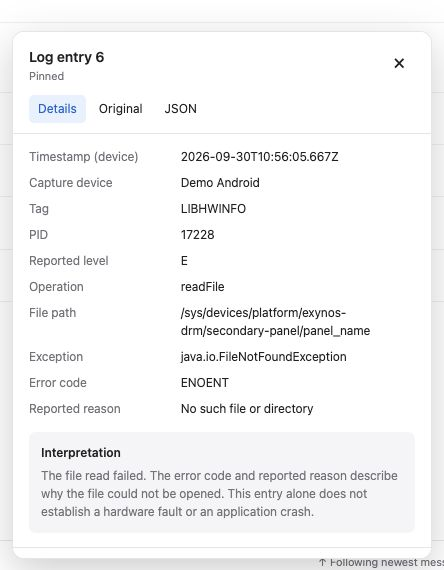
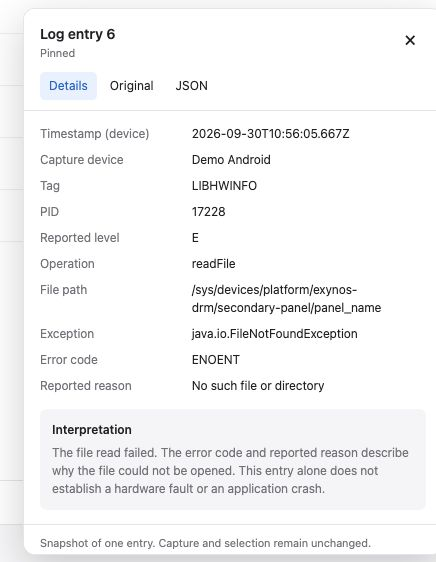
add settings popover. persist selected language, device, display mode, buffer size

diff --git a/src/App.vue b/src/App.vue
@@ -6,19 +6,21 @@ import { filterLogLevels, logLevel, logLevels, type LogLevel } from '../shared/l
 import { rangeKeys, selectedEntries } from '../shared/log-selection';
 import { serializeLogExport, type LogExportFormat } from '../shared/log-export';
 import { useI18n, uiMessage, type UiMessage } from './i18n';
+import UserSettings from './components/UserSettings.vue';
+import { createRememberedDevice, deviceKey } from './remembered-device';
+import { usePreferences } from './composables/usePreferences';
 import PrecisionMenu from './components/PrecisionMenu.vue';
 import LogMessageText from './components/LogMessageText.vue';
 import LogDetails from './components/LogDetails.vue';
 import { useLogDetails } from './composables/useLogDetails';
 
-const { locale, setLocale, languages, languageName, t, n, localizeMessage, deviceState, levelLabel } = useI18n();
+const { locale, setLocale, t, n, localizeMessage, deviceState, levelLabel } = useI18n();
 
 const devices = ref<Device[]>([]);
 const warnings = ref<(DeviceList['warnings'][number] | UiMessage)[]>([]);
 const selected = ref('');
 const messages = ref<(LogMessage & { key: number })[]>([]);
-const bufferSizes = [1000, 2000, 10000, 50000, 100000];
-const bufferSize = ref(2000);
+const { bufferSize, theme, newestPosition } = usePreferences();
 const pausedMessages = ref<typeof messages.value>();
 const paused = computed(() => pausedMessages.value !== undefined);
 const visibleMessages = computed(() => pausedMessages.value ?? messages.value);
@@ -44,14 +46,14 @@ const copyButton = ref<HTMLButtonElement>();
 const status = ref<UiMessage | string>(uiMessage('initialStatus'));
 const loading = ref(false);
 const following = ref(true);
-const newestPosition = ref<'top' | 'bottom'>('top');
 const displayedMessages = computed(() => newestPosition.value === 'top'
   ? [...filteredMessages.value].reverse()
   : filteredMessages.value);
 const viewport = ref<HTMLElement>();
 const details = useLogDetails(() => viewport.value?.focus({ preventScroll: true }));
 const { record: detailRecord, pinned: detailPinned, position: detailPosition } = details;
-const keyOf = (device: Device) => `${device.platform}:${device.id}`;
+const keyOf = deviceKey;
+const rememberedDevice = createRememberedDevice();
 const currentDevice = computed(() => devices.value.find(d => keyOf(d) === selected.value));
 let source: EventSource | undefined;
 let poll: ReturnType<typeof setInterval>;
@@ -70,7 +72,9 @@ async function refresh() {
     if (disposed) return;
     devices.value = result.devices;
     warnings.value = result.warnings;
-    if (selected.value && !currentDevice.value) {
+    const restored = rememberedDevice.restoreOnce(result.devices);
+    if (!selected.value && restored) selected.value = restored;
+    if (selected.value && currentDevice.value?.state !== 'connected') {
       stop();
       selected.value = '';
       status.value = uiMessage('disconnected');
@@ -196,7 +200,7 @@ watch(displayedMessages, rows => {
   if (!rows.some(row => row.key === anchorKey.value)) { anchorKey.value = undefined; rangePending.value = false; }
 });
 watch(status, () => { exportStatus.value = undefined; });
-watch(selected, start);
+watch(selected, () => { rememberedDevice.remember(currentDevice.value); start(); });
 watch(newestPosition, async () => {
   following.value = true;
   await nextTick();
@@ -321,12 +325,8 @@ onUnmounted(() => {
 
 <template>
   <div id="precision-design" :data-platform="currentDevice?.platform" :class="{ selecting: selectionMode }">
-    <header class="precision-top"><div class="precision-brand"><span class="precision-brandmark" aria-hidden="true">›_</span><span>Über <span class="brand-secondary">Device Log</span></span></div><div class="precision-toptools"><span class="precision-topnote">{{ t('tagline') }}</span><div class="precision-language">
-      <PrecisionMenu :label="t('language')"><template #selected><span aria-hidden="true">◎</span><span :lang="locale">{{ languageName }}</span></template>
-        <div class="precision-menuhead">{{ t('language') }}</div>
-        <button v-for="language in languages" :key="language.code" :lang="language.code" :aria-pressed="locale === language.code" @click="setLocale(language.code)">{{ language.name }}</button>
-      </PrecisionMenu>
-    </div></div></header>
+    <header class="precision-top"><div class="precision-brand"><span class="precision-brandmark" aria-hidden="true">›_</span><span>Über <span class="brand-secondary">Device Log</span></span></div><div class="precision-toptools"><span class="precision-topnote">{{ t('tagline') }}</span><UserSettings :locale="locale" :theme="theme" :order="newestPosition" @order="newestPosition = $event" :buffer-size="bufferSize" @locale="setLocale" @theme="theme = $event" @buffer-size="bufferSize = $event" />
+    </div></header>
     <main class="precision-main">
       <div class="precision-controls">
         <div class="precision-field precision-device"><label>{{ t('connectedDevice') }}</label>
@@ -338,8 +338,6 @@ onUnmounted(() => {
           </PrecisionMenu>
         </div>
         <button class="precision-iconbutton" :disabled="loading" :aria-label="t('refreshDevices')" @click="refresh">↻</button>
-        <div class="precision-field"><label>{{ t('messageOrder') }}</label><PrecisionMenu :label="t('messageOrder')"><template #selected>↕ {{ t(newestPosition === 'top' ? 'newestFirst' : 'oldestFirst') }}</template><button :aria-pressed="newestPosition === 'top'" @click="newestPosition = 'top'">{{ t('newestFirst') }}</button><button :aria-pressed="newestPosition === 'bottom'" @click="newestPosition = 'bottom'">{{ t('oldestFirst') }}</button></PrecisionMenu></div>
-        <div class="precision-field"><label>{{ t('bufferCapacity') }}</label><PrecisionMenu :label="t('bufferCapacity')"><template #selected>{{ n(bufferSize) }}</template><button v-for="size in bufferSizes" :key="size" :aria-pressed="bufferSize === size" @click="bufferSize = size">{{ t('messageCount', { count: size }) }}</button></PrecisionMenu></div>
       </div>
       <p v-for="(warning, index) in warnings" :key="index" class="warning" role="status">{{ localizeMessage(warning) }}</p>
       <section class="precision-console" :aria-label="t('deviceMessages')">

diff --git a/src/style.css b/src/style.css
@@ -116,19 +116,17 @@ body { margin: 0; }
   #precision-design[data-platform=ios] .precision-columns, #precision-design[data-platform=ios] .precision-row { grid-template-columns: 64px minmax(0,1fr); }
 }
 
-@media (prefers-color-scheme: dark) {
-#precision-design { --pl-bg:#131715; --pl-panel:#1a201c; --pl-text:#e5ece7; --pl-soft:#a0afa5; --pl-line:#303c33; --pl-wash:#202922; --pl-accent:#92dcb3; --pl-accent-bg:#253f30; --pl-error:#f29f94; --pl-error-bg:#332523; --pl-warn:#e2bb76; --pl-warn-bg:#302c21;}
-#precision-design [data-severity=VERBOSE],#precision-design [data-level=VERBOSE] {--pl-level-ink:#d2afff;--pl-level-fill:#39254f;}
-#precision-design [data-severity=DEBUG],#precision-design [data-level=DEBUG] {--pl-level-ink:#99c1ff;--pl-level-fill:#203958;}
-#precision-design [data-severity=INFO],#precision-design [data-level=INFO] {--pl-level-ink:#80e0b4;--pl-level-fill:#1b4031;}
-#precision-design [data-severity=WARN],#precision-design [data-level=WARN] {--pl-level-ink:#ffd17a;--pl-level-fill:#4b3516;}
-#precision-design [data-severity=ERROR],#precision-design [data-level=ERROR] {--pl-level-ink:#ffa5a9;--pl-level-fill:#53262d;}
-#precision-design [data-severity=FATAL],#precision-design [data-level=FATAL] {--pl-level-ink:#ffa2db;--pl-level-fill:#4e2345;}
-#precision-design {--pl-bg:#151517;--pl-panel:#202023;--pl-text:#f3f3f5;--pl-soft:#a5a5af;--pl-line:#36363b;--pl-wash:#29292e;--pl-accent:#99beff;--pl-accent-bg:#29364b;}
-#precision-design .precision-live .precision-dot {color:#77ce94;}
-#precision-design :is(summary,.precision-menu-trigger) {box-shadow:0 1px 2px #00000020;}
-#precision-design .precision-action.precision-pause {box-shadow:0 1px 3px #00000030;}
-}
+:root[data-theme=dark] #precision-design { --pl-bg:#131715; --pl-panel:#1a201c; --pl-text:#e5ece7; --pl-soft:#a0afa5; --pl-line:#303c33; --pl-wash:#202922; --pl-accent:#92dcb3; --pl-accent-bg:#253f30; --pl-error:#f29f94; --pl-error-bg:#332523; --pl-warn:#e2bb76; --pl-warn-bg:#302c21;}
+:root[data-theme=dark] #precision-design [data-severity=VERBOSE],:root[data-theme=dark] #precision-design [data-level=VERBOSE] {--pl-level-ink:#d2afff;--pl-level-fill:#39254f;}
+:root[data-theme=dark] #precision-design [data-severity=DEBUG],:root[data-theme=dark] #precision-design [data-level=DEBUG] {--pl-level-ink:#99c1ff;--pl-level-fill:#203958;}
+:root[data-theme=dark] #precision-design [data-severity=INFO],:root[data-theme=dark] #precision-design [data-level=INFO] {--pl-level-ink:#80e0b4;--pl-level-fill:#1b4031;}
+:root[data-theme=dark] #precision-design [data-severity=WARN],:root[data-theme=dark] #precision-design [data-level=WARN] {--pl-level-ink:#ffd17a;--pl-level-fill:#4b3516;}
+:root[data-theme=dark] #precision-design [data-severity=ERROR],:root[data-theme=dark] #precision-design [data-level=ERROR] {--pl-level-ink:#ffa5a9;--pl-level-fill:#53262d;}
+:root[data-theme=dark] #precision-design [data-severity=FATAL],:root[data-theme=dark] #precision-design [data-level=FATAL] {--pl-level-ink:#ffa2db;--pl-level-fill:#4e2345;}
+:root[data-theme=dark] #precision-design {--pl-bg:#151517;--pl-panel:#202023;--pl-text:#f3f3f5;--pl-soft:#a5a5af;--pl-line:#36363b;--pl-wash:#29292e;--pl-accent:#99beff;--pl-accent-bg:#29364b;}
+:root[data-theme=dark] #precision-design .precision-live .precision-dot {color:#77ce94;}
+:root[data-theme=dark] #precision-design :is(summary,.precision-menu-trigger) {box-shadow:0 1px 2px #00000020;}
+:root[data-theme=dark] #precision-design .precision-action.precision-pause {box-shadow:0 1px 3px #00000030;}
 
 #precision-design .precision-menu-trigger:disabled { width: 100%; text-align: left; cursor: default; opacity: 1; }
 
@@ -237,3 +235,13 @@ body { margin: 0; }
 @media (prefers-reduced-motion: reduce) {
   #precision-design .precision-action.precision-pause[aria-pressed=true] { animation: none; }
 }
+
+#precision-design .precision-settings { position: relative; }
+#precision-design .settings-panel { position: absolute; right: 0; top: calc(100% + 8px); z-index: 60; width: 300px; max-width: calc(100vw - 28px); max-height: calc(100dvh - 90px); overflow-y: auto; padding: 16px; border: 1px solid var(--pl-line); border-radius: 12px; background: var(--pl-panel); box-shadow: 0 12px 36px #0002; }
+#precision-design .settings-panel header { display: flex; align-items: center; justify-content: space-between; margin-bottom: 12px; }
+#precision-design .settings-panel header button { min-width: 32px; min-height: 32px; font-size: 20px; border-radius: 6px; }
+#precision-design .settings-panel header button:hover { background: var(--pl-wash); }
+#precision-design .settings-panel label { display: block; margin: 12px 0 6px; font-size: 12px; color: var(--pl-soft); }
+#precision-design .settings-panel select { width: 100%; min-height: 42px; padding: 8px; border: 1px solid var(--pl-line); border-radius: 6px; background: var(--pl-panel); color: var(--pl-text); font: inherit; }
+#precision-design .settings-panel select:focus-visible { outline: 2px solid var(--pl-accent); outline-offset: 2px; }
+#precision-design .settings-panel p { margin-top: 14px; font-size: 12px; }

diff --git a/src/i18n/context.ts b/src/i18n/context.ts
@@ -12,7 +12,7 @@ const platformDetail = { platform: 'Platform name Android or iOS; retain verbati
 const detail = { detail: 'Original technical diagnostic or HTTP status; retain verbatim, even if in another language.' };
 
 export const translationContext = {
-  language: c('Header language-menu accessible name and menu heading.', 'The language of the application interface, not of captured logs.'),
+  language: c('Language selector label in the Settings popover.', 'The language of the application interface, not of captured logs.'),
   tagline: c('Header beside the product name.', 'The viewer brings Android and iOS logs into one interface. Retain platform names.'),
   connectedDevice: c('Label above the device picker.', 'The device whose logs the user wants to view.'),
   chooseDevice: c('Accessible name of the device picker.', 'Choose a connected phone or emulator for log capture.'),
@@ -21,10 +21,10 @@ export const translationContext = {
   availableDevices: c('Heading inside the device menu.', 'List of discovered devices, including devices not yet authorized.'),
   authorizeDevice: c('Empty device-menu help.', 'Connect a device and grant this computer access on the device.'),
   refreshDevices: c('Accessible name of the refresh icon next to device picker.', 'Repeat device discovery; does not reload the page or restart capture.'),
-  messageOrder: c('Label and accessible name of the ordering menu.', 'Display order of log records, not severity or search relevance.'),
+  messageOrder: c('Message-order selector label in the Settings popover; preference persists locally.', 'Display order of log records, not severity or search relevance.'),
   newestFirst: c('Ordering-menu option and selected value.', 'Display the most recent records at the top.'),
   oldestFirst: c('Ordering-menu option and selected value.', 'Display older records first, with the newest records at the bottom.'),
-  bufferCapacity: c('Label and accessible name of the buffer menu.', 'Maximum number of log records retained in browser memory; not a byte size.'),
+  bufferCapacity: c('Buffer-capacity selector label in the Settings popover; preference persists locally.', 'Maximum number of log records retained in browser memory; not a byte size.'),
   messageCount: c('Buffer-size menu options and displayed-record count above the stream.', 'Number of log records. Use a count label that reads naturally at zero, one and many.', countMessages),
   deviceMessages: c('Accessible name of the console section.', 'Region containing device logs and their controls; not SMS messages.'),
   filterLogs: c('Search field accessible name.', 'Filter the visible device log records.'),
@@ -137,6 +137,13 @@ export const translationContext = {
   detailErrorCode: c("Message detail metadata label.", "Symbolic operating-system error code, such as ENOENT; the code stays verbatim."),
   detailReason: c("Message detail metadata label.", "Original operating-system error description; value remains in the log's language."),
   detailFileRead: c("Explanation for a recognized readFile/FileNotFoundException/open failed message.", "Explain that the read failed and refer to the reported reason. Do not assume the file is missing for every errno, or infer hardware failure from a sysfs path."),
+  settings: c("Header settings trigger and popover heading.", "User preferences for language, theme, message order and retained message count."),
+  settingsClose: c("Settings popover close button accessibility label.", "Dismiss settings and return focus to its trigger."),
+  settingsAppearance: c("Settings theme selector label.", "Choose the interface color theme, not log severity colors."),
+  settingsSystem: c("Theme selector option.", "Follow the operating system light/dark preference, including later changes."),
+  settingsLight: c("Theme selector option.", "Always use the light interface theme."),
+  settingsDark: c("Theme selector option.", "Always use the dark interface theme."),
+  settingsStorage: c("Settings popover hint below selectors.", "Preferences apply immediately and are saved in browser local storage when available. Blocked storage allows session-only changes."),
   detailSource: c("Detail metadata label.", "Filename and line number explicitly present at the start of the message, not a local clickable file."),
   detailUnavailable: c("Detail metadata value when a field is absent.", "No value is available for this field; does not mean zero or an empty process name."),
   detailInterpretation: c("Heading above the message explanation.", "Cautious interpretation of observed text, not a verified root-cause analysis."),

diff --git a/src/components/UserSettings.vue b/src/components/UserSettings.vue
@@ -1,0 +1,44 @@
+<script setup lang="ts">
+import { onMounted, onUnmounted, ref } from 'vue';
+import { languages, translate, type Locale } from '../i18n';
+import { bufferSizes, resolveBufferSize, resolveMessageOrder, resolveTheme, type Theme, type MessageOrder } from '../preferences';
+const props = defineProps<{ locale: Locale; theme: Theme; order: MessageOrder; bufferSize: number }>();
+const emit = defineEmits<{ order: [value: MessageOrder]; locale: [value: Locale]; theme: [value: Theme]; bufferSize: [value: number] }>();
+const root = ref<HTMLDetailsElement>();
+const trigger = ref<HTMLElement>();
+const t = (key: Parameters<typeof translate>[1]) => translate(props.locale, key);
+function close(focus = false) {
+  if (!root.value?.open) return;
+  root.value.open = false;
+  if (focus) trigger.value?.focus();
+}
+function outside(event: PointerEvent) {
+  if (event.target instanceof Node && !root.value?.contains(event.target)) close();
+}
+function languageChanged(event: Event) {
+  const value = (event.target as HTMLSelectElement).value;
+  const language = languages.find(item => item.code === value);
+  if (language) emit('locale', language.code);
+}
+onMounted(() => document.addEventListener('pointerdown', outside));
+onUnmounted(() => document.removeEventListener('pointerdown', outside));
+</script>
+<template>
+  <details ref="root" class="precision-settings" @keydown.esc.stop.prevent="close(true)" @focusout="event => { if (!root?.contains(event.relatedTarget as Node)) close(); }">
+    <summary ref="trigger" :aria-label="t('settings')"><span aria-hidden="true">⚙</span> {{ t('settings') }}</summary>
+    <section class="settings-panel" :aria-label="t('settings')">
+      <header><strong>{{ t('settings') }}</strong><button type="button" :aria-label="t('settingsClose')" @click="close(true)">×</button></header>
+      <label for="settings-language">{{ t('language') }}</label>
+      <select id="settings-language" :value="locale" @change="languageChanged"><option v-for="language in languages" :key="language.code" :value="language.code" :lang="language.code">{{ language.name }}</option></select>
+      <label for="settings-theme">{{ t('settingsAppearance') }}</label>
+      <select id="settings-theme" :value="theme" @change="emit('theme', resolveTheme(($event.target as HTMLSelectElement).value))">
+        <option value="system">{{ t('settingsSystem') }}</option><option value="light">{{ t('settingsLight') }}</option><option value="dark">{{ t('settingsDark') }}</option>
+      </select>
+      <label for="settings-order">{{ t('messageOrder') }}</label>
+      <select id="settings-order" :value="order" @change="emit('order', resolveMessageOrder(($event.target as HTMLSelectElement).value))"><option value="top">{{ t('newestFirst') }}</option><option value="bottom">{{ t('oldestFirst') }}</option></select>
+      <label for="settings-buffer">{{ t('bufferCapacity') }}</label>
+      <select id="settings-buffer" :value="bufferSize" @change="emit('bufferSize', resolveBufferSize(($event.target as HTMLSelectElement).value))"><option v-for="size in bufferSizes" :key="size" :value="size">{{ translate(locale, 'messageCount', { count: size }) }}</option></select>
+      <p>{{ t('settingsStorage') }}</p>
+    </section>
+  </details>
+</template>

diff --git a/server/remembered-device.test.ts b/server/remembered-device.test.ts
@@ -1,0 +1,35 @@
+import { test } from 'node:test';
+import assert from 'node:assert/strict';
+import { createRememberedDevice, lastDeviceKey } from '../src/remembered-device';
+import type { Device } from '../shared/types';
+const android: Device = { id: 'same-id', name: 'Phone', platform: 'android', state: 'connected' };
+const ios: Device = { ...android, platform: 'ios' };
+
+test('last device survives absence and is restored on a later reload, not background polling', () => {
+  const storage = new Map<string, string>();
+  const page = () => createRememberedDevice(key => storage.get(key) ?? null, (key, value) => { storage.set(key, value); });
+  const first = page();
+  assert.equal(first.restoreOnce([android]), '');
+  first.remember(android);
+  assert.equal(storage.get(lastDeviceKey), 'android:same-id');
+  assert.equal(page().restoreOnce([ios, android]), 'android:same-id');
+  const absent = page();
+  assert.equal(absent.restoreOnce([ios]), '');
+  absent.remember(undefined);
+  assert.equal(storage.get(lastDeviceKey), 'android:same-id');
+  assert.equal(absent.restoreOnce([android]), '');
+  assert.equal(page().restoreOnce([android]), 'android:same-id');
+  absent.remember(ios);
+  assert.equal(page().restoreOnce([android, ios]), 'ios:same-id');
+});
+test('unavailable devices and invalid saved keys are not automatically selected', () => {
+  for (const state of ['offline', 'unauthorized', 'disconnected']) {
+    const preference = createRememberedDevice(() => 'android:same-id', () => assert.fail('Unavailable device must not overwrite storage'));
+    const device = { ...android, state };
+    assert.equal(preference.restoreOnce([device]), '');
+    preference.remember(device);
+  }
+  for (const saved of [null, '', 'garbage', 'ios:other']) {
+    assert.equal(createRememberedDevice(() => saved).restoreOnce([android, ios]), '');
+  }
+});

diff --git a/src/composables/usePreferences.ts b/src/composables/usePreferences.ts
@@ -1,0 +1,22 @@
+import { onUnmounted, ref, watch } from 'vue';
+import { preferenceKeys, readPreference, resolveBufferSize, resolveMessageOrder, resolveTheme, savePreference } from '../preferences';
+
+export function usePreferences() {
+  const newestPosition = ref(resolveMessageOrder(readPreference(preferenceKeys.order)));
+  watch(newestPosition, value => savePreference(preferenceKeys.order, value), { flush: 'sync' });
+  const bufferSize = ref(resolveBufferSize(readPreference(preferenceKeys.bufferSize)));
+  const theme = ref(resolveTheme(readPreference(preferenceKeys.theme)));
+  const system = typeof window !== 'undefined' ? window.matchMedia?.('(prefers-color-scheme: dark)') : undefined;
+  function applyTheme() {
+    if (typeof document === 'undefined') return;
+    const effective = theme.value === 'system' ? (system?.matches ? 'dark' : 'light') : theme.value;
+    document.documentElement.dataset.theme = effective;
+    document.documentElement.style.colorScheme = effective;
+  }
+  watch(theme, value => { savePreference(preferenceKeys.theme, value); applyTheme(); }, { flush: 'sync' });
+  watch(bufferSize, value => savePreference(preferenceKeys.bufferSize, String(value)), { flush: 'sync' });
+  applyTheme();
+  system?.addEventListener('change', applyTheme);
+  onUnmounted(() => system?.removeEventListener('change', applyTheme));
+  return { bufferSize, theme, newestPosition };
+}

diff --git a/src/preferences.ts b/src/preferences.ts
@@ -1,0 +1,19 @@
+export const bufferSizes = [1000, 2000, 10000, 50000, 100000] as const;
+export const themes = ['system', 'light', 'dark'] as const;
+export type Theme = typeof themes[number];
+export type MessageOrder = 'top' | 'bottom';
+export function resolveMessageOrder(value: string | null): MessageOrder { return value === 'bottom' ? 'bottom' : 'top'; }
+export const preferenceKeys = { order: 'uber-device-log.messageOrder', theme: 'uber-device-log.theme', bufferSize: 'uber-device-log.bufferSize' };
+export function resolveTheme(value: string | null): Theme {
+  return themes.includes(value as Theme) ? value as Theme : 'system';
+}
+export function resolveBufferSize(value: string | null): number {
+  const size = Number(value);
+  return bufferSizes.some(option => option === size) ? size : 2000;
+}
+export function readPreference(key: string): string | null {
+  try { return window.localStorage.getItem(key); } catch { return null; }
+}
+export function savePreference(key: string, value: string) {
+  try { window.localStorage.setItem(key, value); } catch { /* Session settings still work. */ }
+}

diff --git a/server/preferences.test.ts b/server/preferences.test.ts
@@ -1,0 +1,17 @@
+import { test } from 'node:test';
+import assert from 'node:assert/strict';
+import { bufferSizes, resolveBufferSize, resolveTheme, resolveMessageOrder, readPreference, savePreference } from '../src/preferences';
+
+test('saved preferences accept supported values and recover from invalid storage', () => {
+  for (const size of bufferSizes) assert.equal(resolveBufferSize(String(size)), size);
+  for (const value of [null, '', 'garbage', '-1', '999999999', 'NaN']) assert.equal(resolveBufferSize(value), 2000);
+  for (const value of ['light', 'dark', 'system']) assert.equal(resolveTheme(value), value);
+  assert.equal(resolveTheme('invalid'), 'system');
+  assert.equal(resolveTheme(null), 'system');
+  assert.equal(resolveMessageOrder('bottom'), 'bottom');
+  for (const value of [null, 'top', 'invalid']) assert.equal(resolveMessageOrder(value), 'top');
+});
+test('unavailable browser storage does not prevent session preferences', () => {
+  assert.equal(readPreference('theme'), null);
+  assert.doesNotThrow(() => savePreference('theme', 'dark'));
+});

diff --git a/src/remembered-device.ts b/src/remembered-device.ts
@@ -1,0 +1,23 @@
+import type { Device } from '../shared/types';
+import { readPreference, savePreference } from './preferences';
+
+export const lastDeviceKey = 'uber-device-log.lastDevice';
+export const deviceKey = (device: Device) => `${device.platform}:${device.id}`;
+
+/** Restore only on initial successful discovery; polling must not start capture later. */
+export function createRememberedDevice(read = readPreference, save = savePreference) {
+  const saved = read(lastDeviceKey);
+  let checked = false;
+  return {
+    restoreOnce(devices: Device[]): string {
+      if (checked) return '';
+      checked = true;
+      return devices.find(device => device.state === 'connected' && deviceKey(device) === saved)
+        ? saved! : '';
+    },
+    remember(device: Device | undefined) {
+      // Disconnects and empty selections must preserve the last usable device.
+      if (device?.state === 'connected') save(lastDeviceKey, deviceKey(device));
+    },
+  };
+}

diff --git a/src/i18n/fr.ts b/src/i18n/fr.ts
@@ -125,6 +125,13 @@ export const fr = {
   detailErrorCode: "Code d’erreur",
   detailReason: "Motif indiqué",
   detailFileRead: "La lecture du fichier a échoué. Le code d’erreur et le motif indiqué décrivent pourquoi le fichier n’a pas pu être ouvert. Cette entrée seule ne prouve ni une panne matérielle ni un plantage de l’application.",
+  settings: "Paramètres",
+  settingsClose: "Fermer les paramètres",
+  settingsAppearance: "Apparence",
+  settingsSystem: "Système",
+  settingsLight: "Clair",
+  settingsDark: "Sombre",
+  settingsStorage: "Les modifications sont appliquées immédiatement et enregistrées dans ce navigateur si le stockage local est disponible.",
   detailSource: "Emplacement dans le code",
   detailUnavailable: "Non disponible",
   detailInterpretation: "Interprétation",

diff --git a/src/i18n/it.ts b/src/i18n/it.ts
@@ -125,6 +125,13 @@ export const it = {
   detailErrorCode: "Codice di errore",
   detailReason: "Motivo segnalato",
   detailFileRead: "La lettura del file non è riuscita. Il codice di errore e il motivo segnalato descrivono perché non è stato possibile aprire il file. Questa voce da sola non dimostra un guasto hardware né un arresto anomalo dell’applicazione.",
+  settings: "Impostazioni",
+  settingsClose: "Chiudi impostazioni",
+  settingsAppearance: "Aspetto",
+  settingsSystem: "Sistema",
+  settingsLight: "Chiaro",
+  settingsDark: "Scuro",
+  settingsStorage: "Le modifiche vengono applicate subito e salvate in questo browser se l’archiviazione locale è disponibile.",
   detailSource: "Posizione nel codice",
   detailUnavailable: "Non disponibile",
   detailInterpretation: "Interpretazione",

diff --git a/src/i18n/es.ts b/src/i18n/es.ts
@@ -125,6 +125,13 @@ export const es = {
   detailErrorCode: "Código de error",
   detailReason: "Motivo indicado",
   detailFileRead: "La lectura del archivo falló. El código de error y el motivo indicado describen por qué no se pudo abrir el archivo. Esta entrada por sí sola no demuestra un fallo de hardware ni un cierre inesperado de la aplicación.",
+  settings: "Ajustes",
+  settingsClose: "Cerrar ajustes",
+  settingsAppearance: "Apariencia",
+  settingsSystem: "Sistema",
+  settingsLight: "Claro",
+  settingsDark: "Oscuro",
+  settingsStorage: "Los cambios se aplican de inmediato y se guardan en este navegador si el almacenamiento local está disponible.",
   detailSource: "Ubicación en el código",
   detailUnavailable: "No disponible",
   detailInterpretation: "Interpretación",
